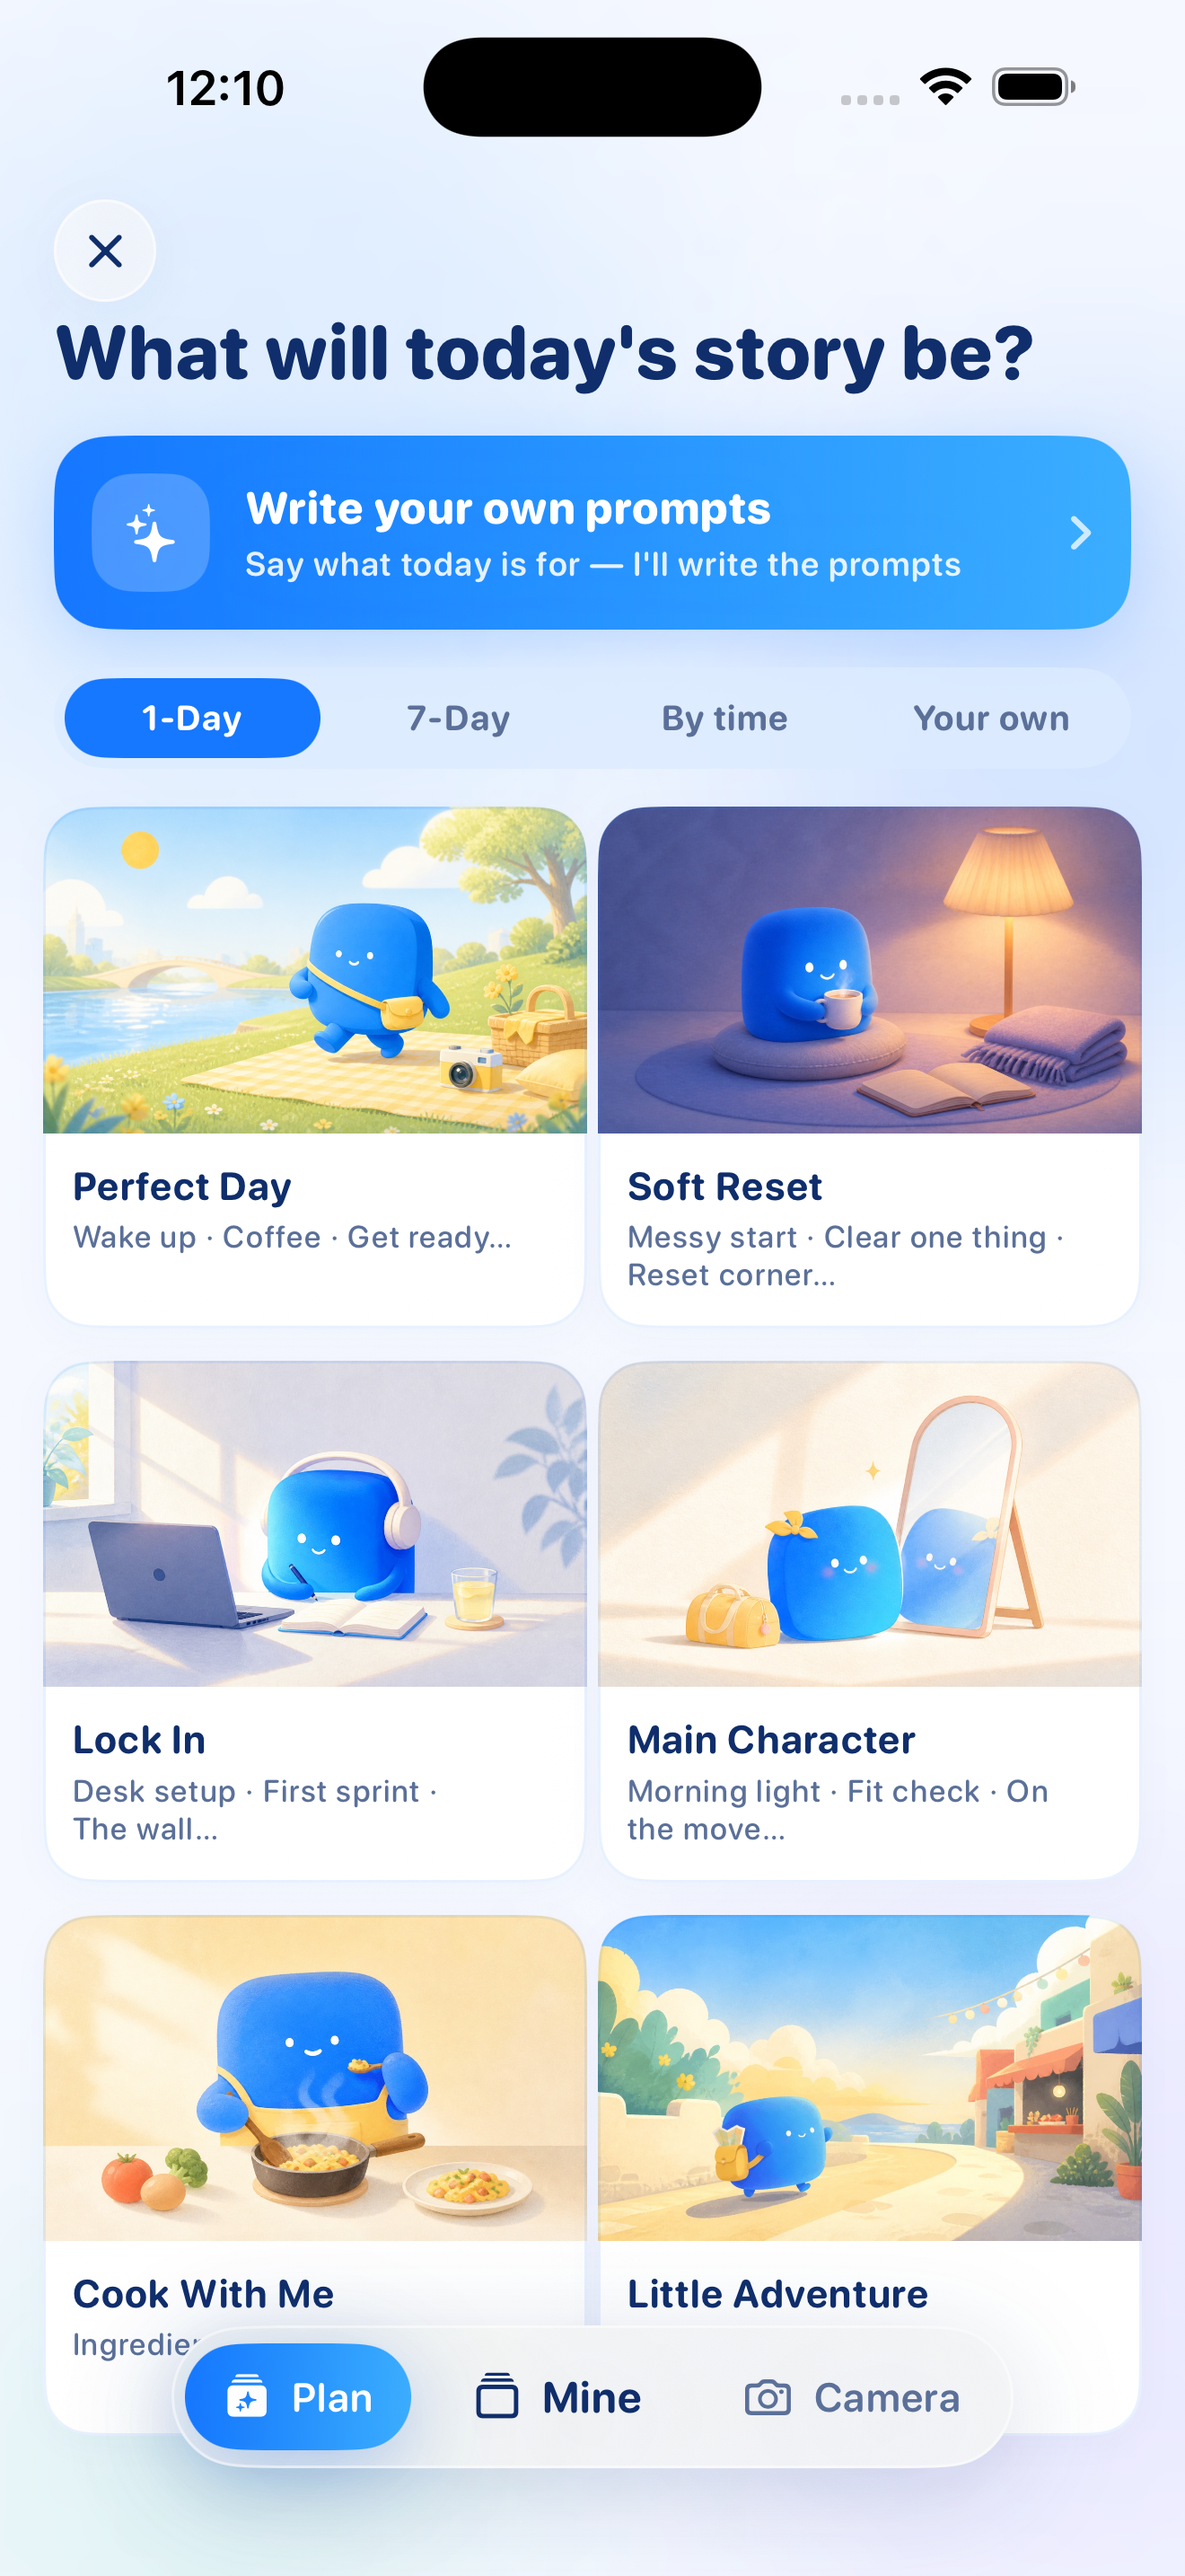
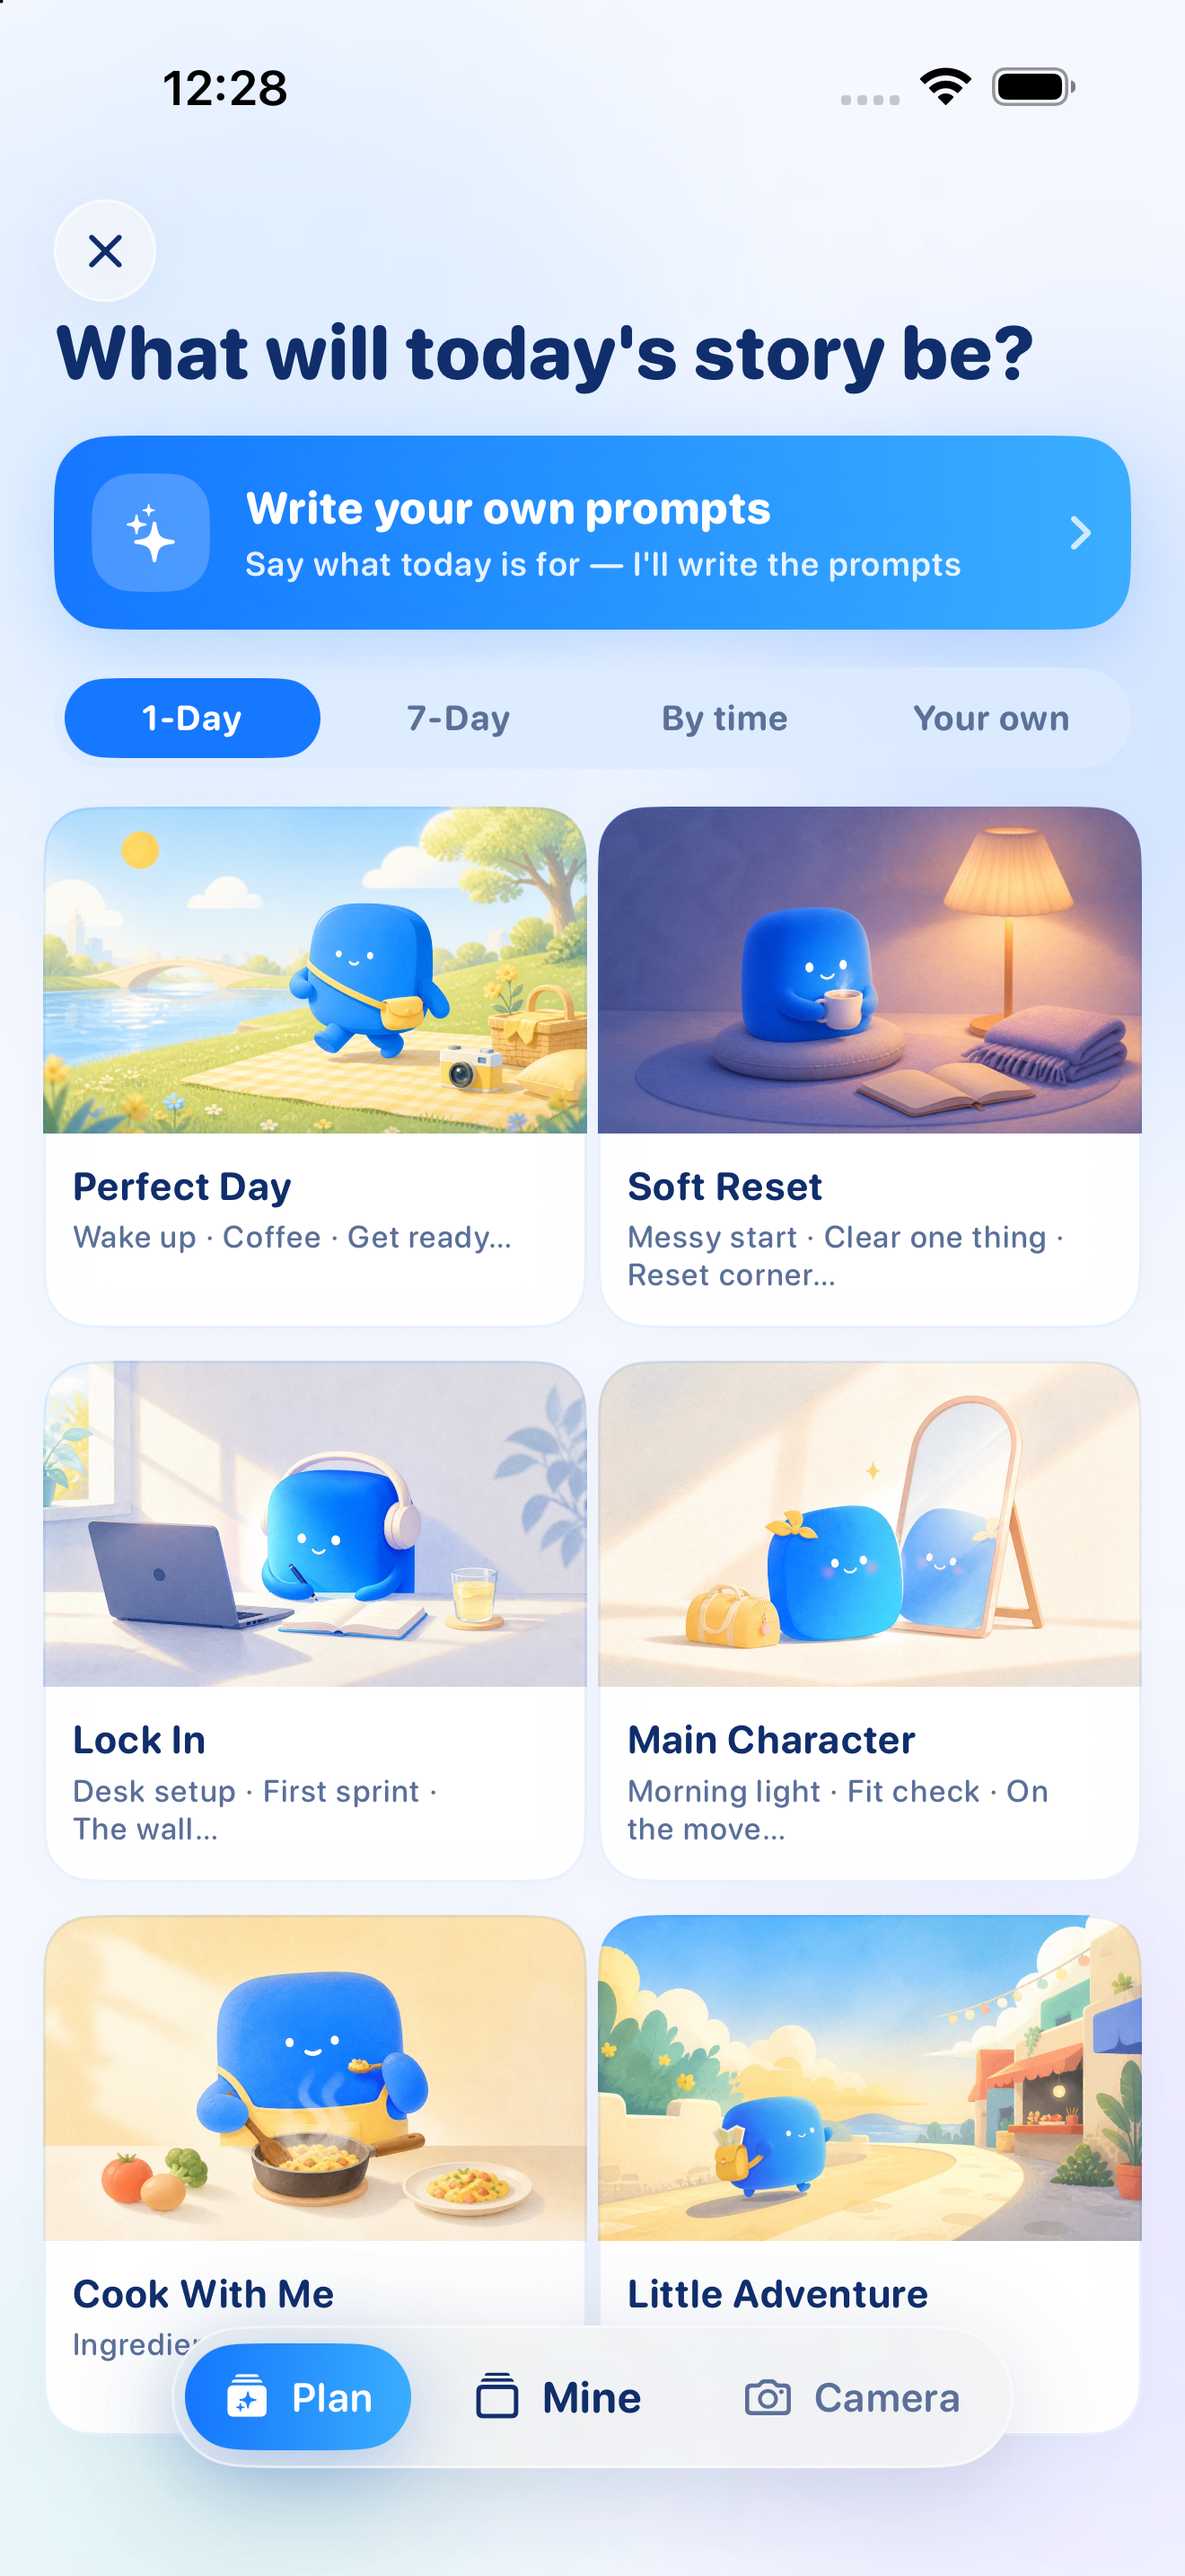
英文首页那张换成有三个故事在跑的样子
capture.sh 拍 02-home 是刚过完引导的时候，屏幕上只有一只小蘑菇和「今天还
没有故事」。那是实话，也是整个 App 里最没看头的一屏——商品页要给人看的是
用起来之后长什么样。

seed_home.py 在拍完之后、往那支已完成的故事旁边再加两个，用的是列表本来
就为之设计的两种状态：一个拍到一半的共享房间（Challenge.isShared 就是
roomCode != nil），一个昨天的单人故事。现在这张是「出门冒险」带 Shared 角
标 4/7 当主卡，下面 Perfect Day 成片就绪 7/7 和昨天的 Cook With Me 3/7。

数据全是 App 自己的格式，没有一笔是画上去的。瞬间的 key 从真实模板里抄，
所以封面、标题、瞬间名字互相对得上——把 Perfect Day 的瞬间塞进 Cook With
Me 的封面下面，在首页看着没事，一点进去就露馅。

中文那张还是空状态，只改了英文这一张。

Changed region(s): [[0.3417, 0.0, 0.6523, 0.0621], [0.1864, 0.031, 0.2485, 0.0621]]

diff --git a/ios/release/1.4/store-kit/seed_home.py b/ios/release/1.4/store-kit/seed_home.py
@@ -1,0 +1,139 @@
+#!/usr/bin/env python3
+"""Give the home screen more than one story to show.
+
+`capture.sh` shoots 02-home straight after onboarding, so it shows the empty
+state — a mascot and "No story yet today". That is honest and it is also the
+least interesting screen in the app: a store page's job is to show what the
+thing looks like once someone is using it.
+
+So this runs *after* `seed_film.py` and adds two more stories beside the
+finished one, in the two states the list is actually built to show:
+
+  * a shared room, part-filmed — `Challenge.isShared` is just `roomCode != nil`
+  * a solo story from yesterday, part-filmed
+
+Everything is real app data in the app's own format; nothing is drawn on. The
+moment keys are copied from the real templates (`ChallengeTemplate.swift`) so
+each story's cover, title and moment names agree with each other — cloning
+Perfect Day's moments under a Cook With Me cover would look right on home and
+wrong the moment anyone tapped it.
+
+Run with the app NOT running, same as seed_film.py, and for the same reason:
+the write goes through the container's plist and cfprefsd caches it.
+
+    python3 seed_home.py <sim-udid> [zh|en]
+"""
+from __future__ import annotations
+
+import json
+import plistlib
+import subprocess
+import sys
+import uuid
+from datetime import datetime, timedelta
+from pathlib import Path
+
+BUNDLE = "com.cassie.AISetlog"
+APPLE_EPOCH = datetime(2001, 1, 1)
+SOURCE = Path(__file__).resolve().parents[3] / "AISetlog/Resources/Onboarding/sample-film.mp4"
+OFFSETS = [0.0, 1.6, 3.2, 4.8, 6.4, 8.0, 9.6]
+
+# (templateName, title en/zh, momentKeys, filled, days_ago, roomCode, ownerName)
+EXTRAS = [
+    (
+        "Little Adventure",
+        {"en": "Little Adventure", "zh": "出门冒险"},
+        ["heading_out", "first_stop", "street_snack", "found_a_spot",
+         "people_watching", "golden_light", "back_home"],
+        4, 0, "K7M2QX", {"en": "Cassie", "zh": "Cassie"},
+    ),
+    (
+        "Cook With Me",
+        {"en": "Cook With Me", "zh": "和我做饭"},
+        ["ingredients", "prep", "the_sizzle", "taste_test",
+         "plate_it", "first_bite", "clean_up"],
+        3, 1, None, None,
+    ),
+]
+
+
+def run(*args: str) -> str:
+    return subprocess.run(args, capture_output=True, text=True, check=True).stdout.strip()
+
+
+def main() -> int:
+    udid = sys.argv[1]
+    lang = sys.argv[2] if len(sys.argv) > 2 else "zh"
+
+    container = Path(run("xcrun", "simctl", "get_app_container", udid, BUNDLE, "data"))
+    prefs = container / "Library/Preferences" / f"{BUNDLE}.plist"
+    with prefs.open("rb") as fh:
+        defaults = plistlib.load(fh)
+
+    challenges = json.loads(defaults["challenges.v2"])
+    if not challenges:
+        print("no story in challenges.v2 — run capture.sh first")
+        return 1
+
+    base = challenges[0]
+    unix_offset = (APPLE_EPOCH - datetime(1970, 1, 1)).total_seconds()
+    base_start = datetime.fromtimestamp(base["startDate"] + unix_offset)
+
+    for template, titles, keys, filled, days_ago, room, owner in EXTRAS:
+        cid = str(uuid.uuid4()).upper()
+        start = base_start - timedelta(days=days_ago)
+        midnight = start.replace(hour=0, minute=0, second=0, microsecond=0)
+
+        clips = container / "Documents/clips" / cid
+        clips.mkdir(parents=True, exist_ok=True)
+
+        cards = []
+        for index in range(len(keys)):
+            card = {"day": index + 1, "reactions": [], "comments": []}
+            if index < filled:
+                name = f"day{index + 1}.mp4"
+                subprocess.run(
+                    ["ffmpeg", "-y", "-ss", str(OFFSETS[index % len(OFFSETS)]),
+                     "-i", str(SOURCE), "-t", "2", "-an",
+                     "-c:v", "libx264", "-pix_fmt", "yuv420p", "-preset", "veryfast",
+                     str(clips / name)],
+                    capture_output=True, check=True,
+                )
+                card["clipFileName"] = name
+                card["recordedAt"] = (
+                    midnight + timedelta(hours=7 + index * 1.5)
+                ).timestamp() - unix_offset
+            cards.append(card)
+
+        story = {
+            "id": cid,
+            "cards": cards,
+            "templateName": template,
+            "clipLength": base["clipLength"],
+            "title": titles[lang],
+            "startDate": start.timestamp() - unix_offset,
+            "momentTitles": keys,
+            "mode": "oneDay",
+            "orientation": "portrait",
+        }
+        if room:
+            story["roomCode"] = room
+            story["ownerName"] = owner[lang]
+        challenges.append(story)
+        kind = f"room {room}" if room else "solo"
+        print(f"  + {story['title']}  {filled}/{len(keys)}  {kind}")
+
+    payload = json.dumps(challenges, ensure_ascii=False, separators=(",", ":")).encode()
+    defaults["challenges.v2"] = payload
+    with prefs.open("wb") as fh:
+        plistlib.dump(defaults, fh)
+    print(f"wrote {len(payload)} bytes to challenges.v2 ({len(challenges)} stories)")
+
+    print("restarting simulator so cfprefsd drops its cached copy…")
+    subprocess.run(["xcrun", "simctl", "shutdown", udid], capture_output=True)
+    subprocess.run(["xcrun", "simctl", "boot", udid], capture_output=True)
+    return 0
+
+
+if __name__ == "__main__":
+    raise SystemExit(main())

diff --git a/ios/release/1.4/AppStoreMetadata.md b/ios/release/1.4/AppStoreMetadata.md
@@ -107,7 +107,7 @@ predate anyone picking a colour), and no shot had a clip waiting to be filed.
 | # | File | Screen |
 | --- | --- | --- |
 | 01 | `01-hero.png` | Onboarding: the 3-moments-to-1-film promise, sample film playing |
-| 02 | `02-home.png` | Home, empty — the clearest look at the three tabs |
+| 02 | `02-home.png` | Home with three stories going — a shared room part-filmed, a film ready, one from yesterday (en-US only; zh-Hans is still the empty state) |
 | 03 | `03-themes.png` | The poster rack: you don't have to think of anything yourself |
 | 04 | `04-setup.png` | One settings page: moments, who's filming, clip length, frame |
 | 05 | `05-timeline.png` | A story just created, nothing filmed yet |
@@ -119,6 +119,27 @@ sheet, so lead with the promise and the payoff:
 ```
 01-hero  →  06-film  →  03-themes  →  04-setup  →  05-timeline  →  02-home
 ```
+
+`02-home.png` in the English set is the one shot `capture.sh` does not
+produce. Straight after onboarding the home screen is empty — a mascot and
+"No story yet today" — which is the least interesting screen in the app. So
+`seed_home.py` runs after the capture and adds two stories beside the finished
+one, in the two states the list exists to show: a part-filmed shared room and
+a solo story from yesterday. Then shoot home again by hand and overwrite 02:
+
+```bash
+xcrun simctl terminate "$SIM" com.cassie.AISetlog
+python3 store-kit/seed_home.py "$SIM" en
+xcrun simctl bootstatus "$SIM" -b && sleep 5
+xcrun simctl launch --terminate-running-process "$SIM" com.cassie.AISetlog \
+  -onboarding.completed.v1 YES -appLanguage english
+sleep 9 && xcrun simctl io "$SIM" screenshot store-kit/en-US/02-home.png
+```
+
+The data is the app's own: `Challenge.isShared` is `roomCode != nil`, and the
+moment keys are copied from the real templates so each story's cover, title
+and moment names agree. The zh-Hans 02 is still the empty state — only the
+English one was asked for.
 
 Re-shoot with `store-kit/capture.sh english en-US` (and `chinese zh-Hans`).
 Needs a booted `1day-shots` simulator, a Debug build at
